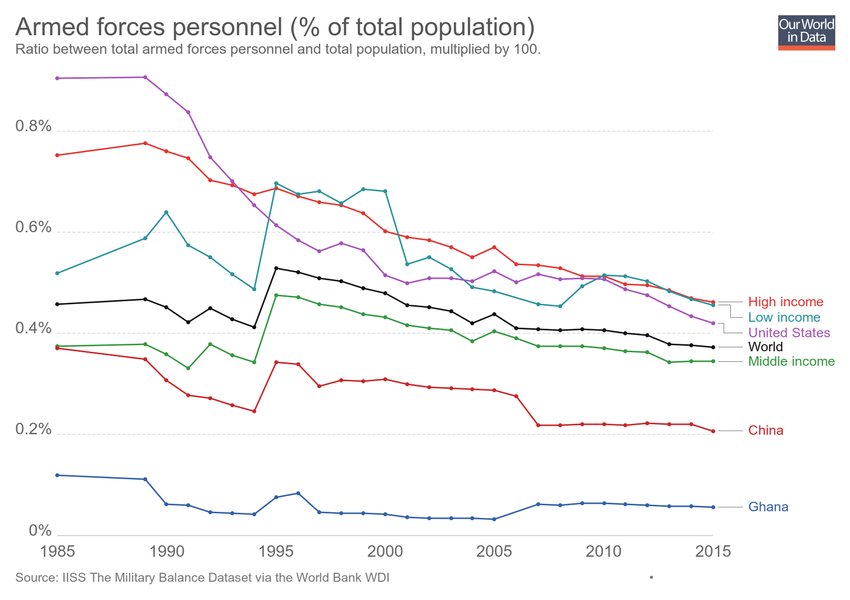
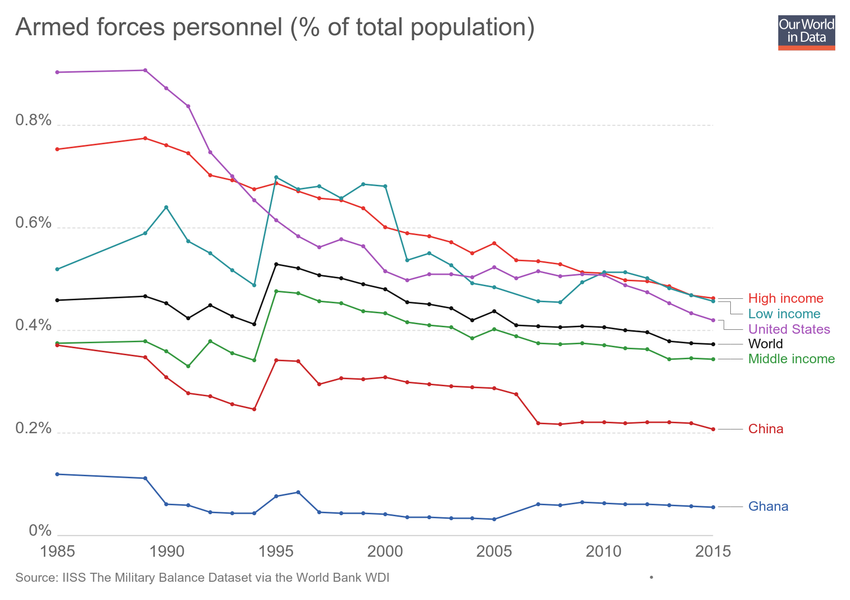
Updating chart armed-forces-personnel-percent

diff --git a/grapher/armed-forces-personnel-percent.html b/grapher/armed-forces-personnel-percent.html
@@ -1,4 +1,4 @@
-<!doctype html><html><head><meta name="viewport" content="width=device-width, initial-scale=1" /><title>Armed forces personnel (% of total population) - Our World in Data</title><meta name="description" content="Ratio between total armed forces personnel and total population, multiplied by 100." /><link rel="canonical" href="https://ourworldindata.org/grapher/armed-forces-personnel-percent" /><meta property="fb:app_id" content="1149943818390250" /><meta property="og:url" content="https://ourworldindata.org/grapher/armed-forces-personnel-percent" /><meta property="og:title" content="Armed forces personnel (% of total population)" /><meta property="og:description" content="Ratio between total armed forces personnel and total population, multiplied by 100." /><meta property="og:image" content="https://ourworldindata.org/grapher/exports/armed-forces-personnel-percent.png?v=8" /><meta property="og:image:width" content="850" /><meta property="og:image:height" content="600" /><meta property="og:site_name" content="Our World in Data" /><meta name="twitter:card" content="summary_large_image" /><meta name="twitter:site" content="@OurWorldInData" /><meta name="twitter:creator" content="@OurWorldInData" /><meta name="twitter:title" content="Armed forces personnel (% of total population)" /><meta name="twitter:description" content="Ratio between total armed forces personnel and total population, multiplied by 100." /><meta name="twitter:image" content="https://ourworldindata.org/grapher/exports/armed-forces-personnel-percent.png?v=8" /><style>
+<!doctype html><html><head><meta name="viewport" content="width=device-width, initial-scale=1" /><title>Armed forces personnel (% of total population) - Our World in Data</title><meta name="description" content="An interactive visualization from Our World in Data." /><link rel="canonical" href="https://ourworldindata.org/grapher/armed-forces-personnel-percent" /><meta property="fb:app_id" content="1149943818390250" /><meta property="og:url" content="https://ourworldindata.org/grapher/armed-forces-personnel-percent" /><meta property="og:title" content="Armed forces personnel (% of total population)" /><meta property="og:description" content="An interactive visualization from Our World in Data." /><meta property="og:image" content="https://ourworldindata.org/grapher/exports/armed-forces-personnel-percent.png?v=9" /><meta property="og:image:width" content="850" /><meta property="og:image:height" content="600" /><meta property="og:site_name" content="Our World in Data" /><meta name="twitter:card" content="summary_large_image" /><meta name="twitter:site" content="@OurWorldInData" /><meta name="twitter:creator" content="@OurWorldInData" /><meta name="twitter:title" content="Armed forces personnel (% of total population)" /><meta name="twitter:description" content="An interactive visualization from Our World in Data." /><meta name="twitter:image" content="https://ourworldindata.org/grapher/exports/armed-forces-personnel-percent.png?v=9" /><style>
         html, body {
             height: 100%;
             margin: 0;
@@ -20,8 +20,8 @@
         }
     </style><noscript><style>
                     figure { display: none !important; }
-                </style></noscript><link rel="stylesheet" href="https://ourworldindata.org/grapher/assets/commons.bundle.dcbbe53805c487d5e57617b10ac73a8a.css" /><link rel="preload" href="/grapher/data/variables/97377.json?v=8" as="fetch" crossorigin /></head><body class="singleChart"><figure data-grapher-src="/grapher/armed-forces-personnel-percent"></figure><noscript id="fallback"><img src="/grapher/exports/armed-forces-personnel-percent.svg" /><p>Interactive visualization requires JavaScript</p></noscript><script src="https://cdn.polyfill.io/v2/polyfill.min.js?features=es6,fetch"></script><script src="https://ourworldindata.org/grapher/assets/commons.bundle.bf155bbb85458868bcfd.js"></script><script src="https://ourworldindata.org/grapher/assets/charts.bundle.bf155bbb85458868bcfd.js"></script><script>
-        var jsonConfig = {"id":2584,"map":{"projection":"World","targetYear":2015,"variableId":97377,"colorSchemeLabels":[],"colorSchemeValues":[],"colorSchemeMinValue":0,"customNumericColors":[],"customCategoryColors":{},"customCategoryLabels":{},"customHiddenCategories":{}},"tab":"chart","slug":"armed-forces-personnel-percent","type":"LineChart","title":"Armed forces personnel (% of total population)","xAxis":{"scaleType":"linear"},"yAxis":{"min":0,"scaleType":"linear"},"version":8,"subtitle":"Ratio between total armed forces personnel and total population, multiplied by 100.","hasMapTab":true,"stackMode":"absolute","dimensions":[{"display":{"unit":"%"},"property":"y","variableId":97377}],"hasChartTab":true,"isPublished":true,"selectedData":[{"index":0,"entityId":320},{"index":0,"entityId":326},{"index":0,"entityId":330},{"color":"#111","index":0,"entityId":355},{"index":0,"entityId":13},{"index":0,"entityId":171},{"index":0,"entityId":150}],"addCountryMode":"add-country"};
+                </style></noscript><link rel="stylesheet" href="https://ourworldindata.org/grapher/assets/commons.bundle.dcbbe53805c487d5e57617b10ac73a8a.css" /><link rel="preload" href="/grapher/data/variables/97377.json?v=9" as="fetch" crossorigin /></head><body class="singleChart"><figure data-grapher-src="/grapher/armed-forces-personnel-percent"></figure><noscript id="fallback"><img src="/grapher/exports/armed-forces-personnel-percent.svg" /><p>Interactive visualization requires JavaScript</p></noscript><script src="https://cdn.polyfill.io/v2/polyfill.min.js?features=es6,fetch"></script><script src="https://ourworldindata.org/grapher/assets/commons.bundle.bf155bbb85458868bcfd.js"></script><script src="https://ourworldindata.org/grapher/assets/charts.bundle.bf155bbb85458868bcfd.js"></script><script>
+        var jsonConfig = {"id":2584,"map":{"projection":"World","targetYear":2015,"variableId":97377,"colorSchemeLabels":[],"colorSchemeValues":[],"colorSchemeMinValue":0,"customNumericColors":[],"customCategoryColors":{},"customCategoryLabels":{},"customHiddenCategories":{}},"tab":"chart","slug":"armed-forces-personnel-percent","type":"LineChart","title":"Armed forces personnel (% of total population)","xAxis":{"scaleType":"linear"},"yAxis":{"min":0,"scaleType":"linear"},"version":9,"hasMapTab":true,"stackMode":"absolute","dimensions":[{"display":{"unit":"%"},"property":"y","variableId":97377}],"hasChartTab":true,"isPublished":true,"selectedData":[{"index":0,"entityId":320},{"index":0,"entityId":326},{"index":0,"entityId":330},{"color":"#111","index":0,"entityId":355},{"index":0,"entityId":13},{"index":0,"entityId":171},{"index":0,"entityId":150}],"addCountryMode":"add-country"};
         var figure = document.getElementsByTagName("figure")[0];
         try {
             window.App = {};
